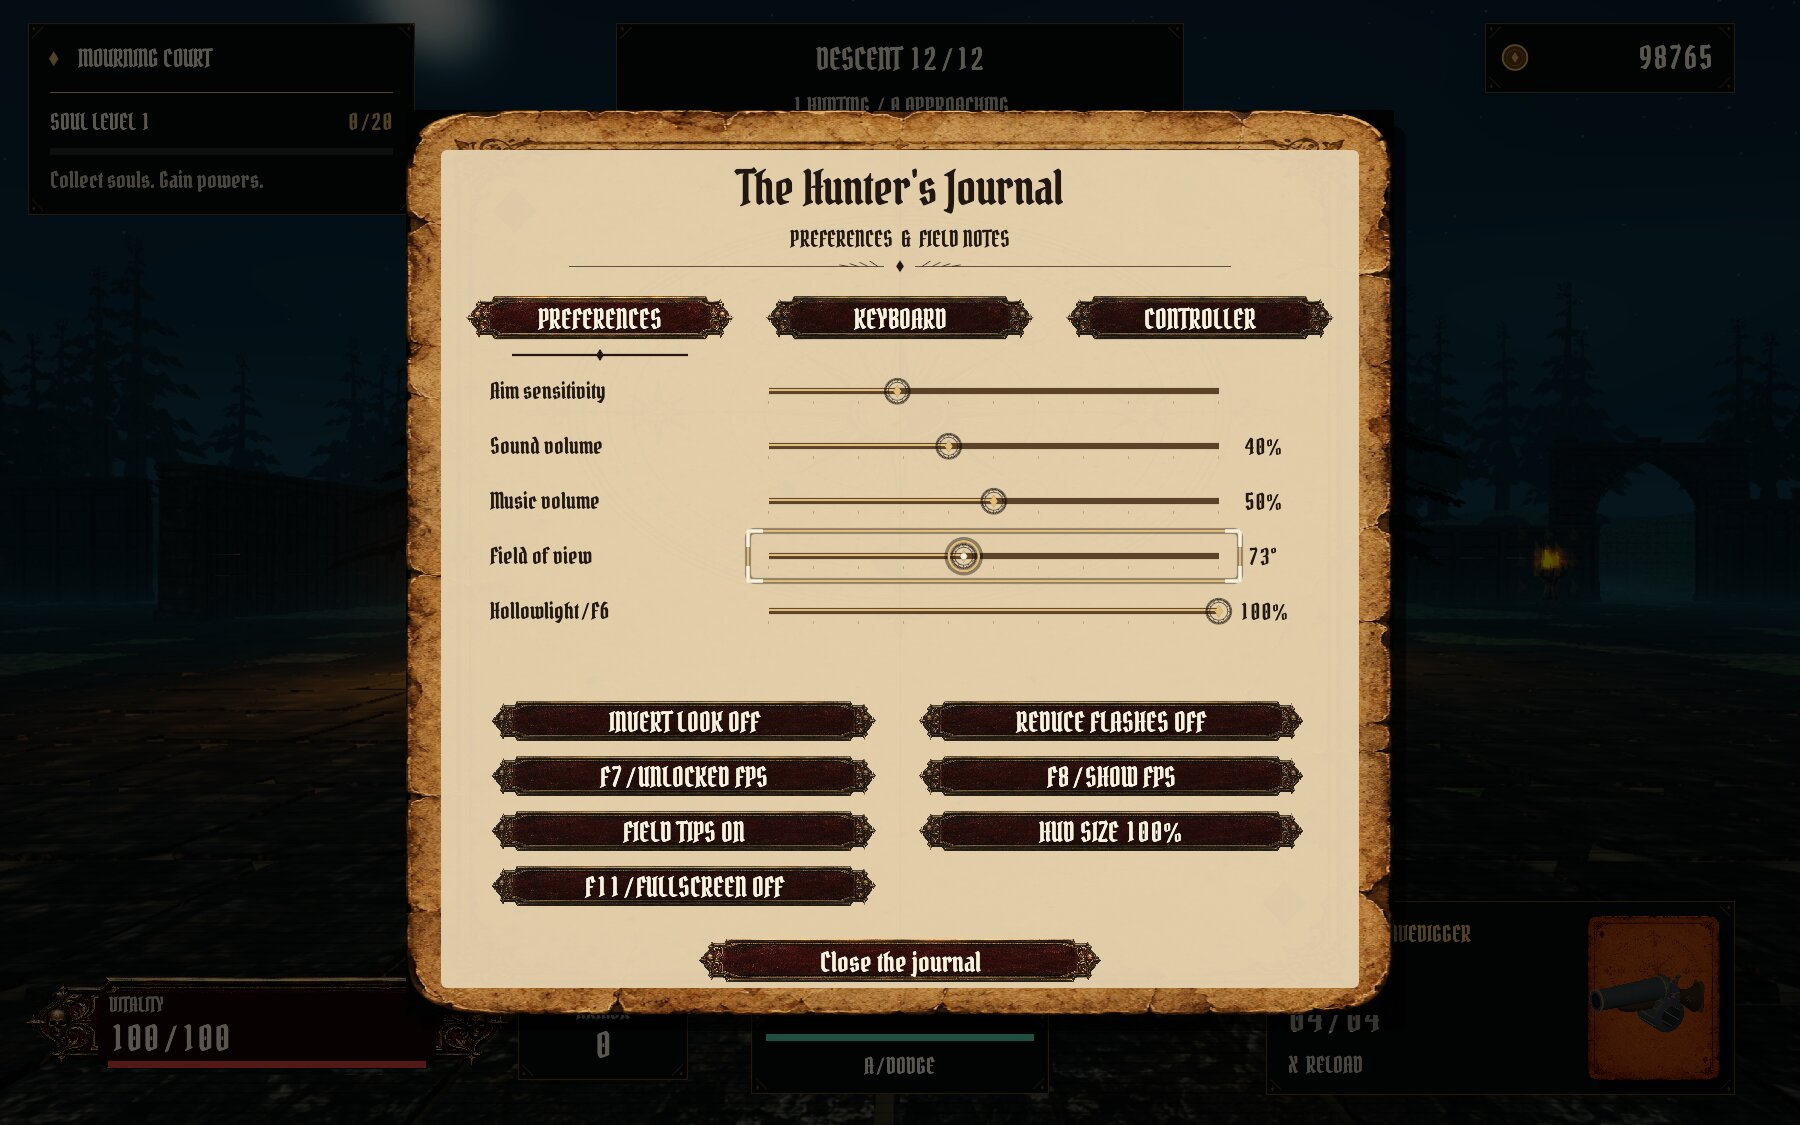
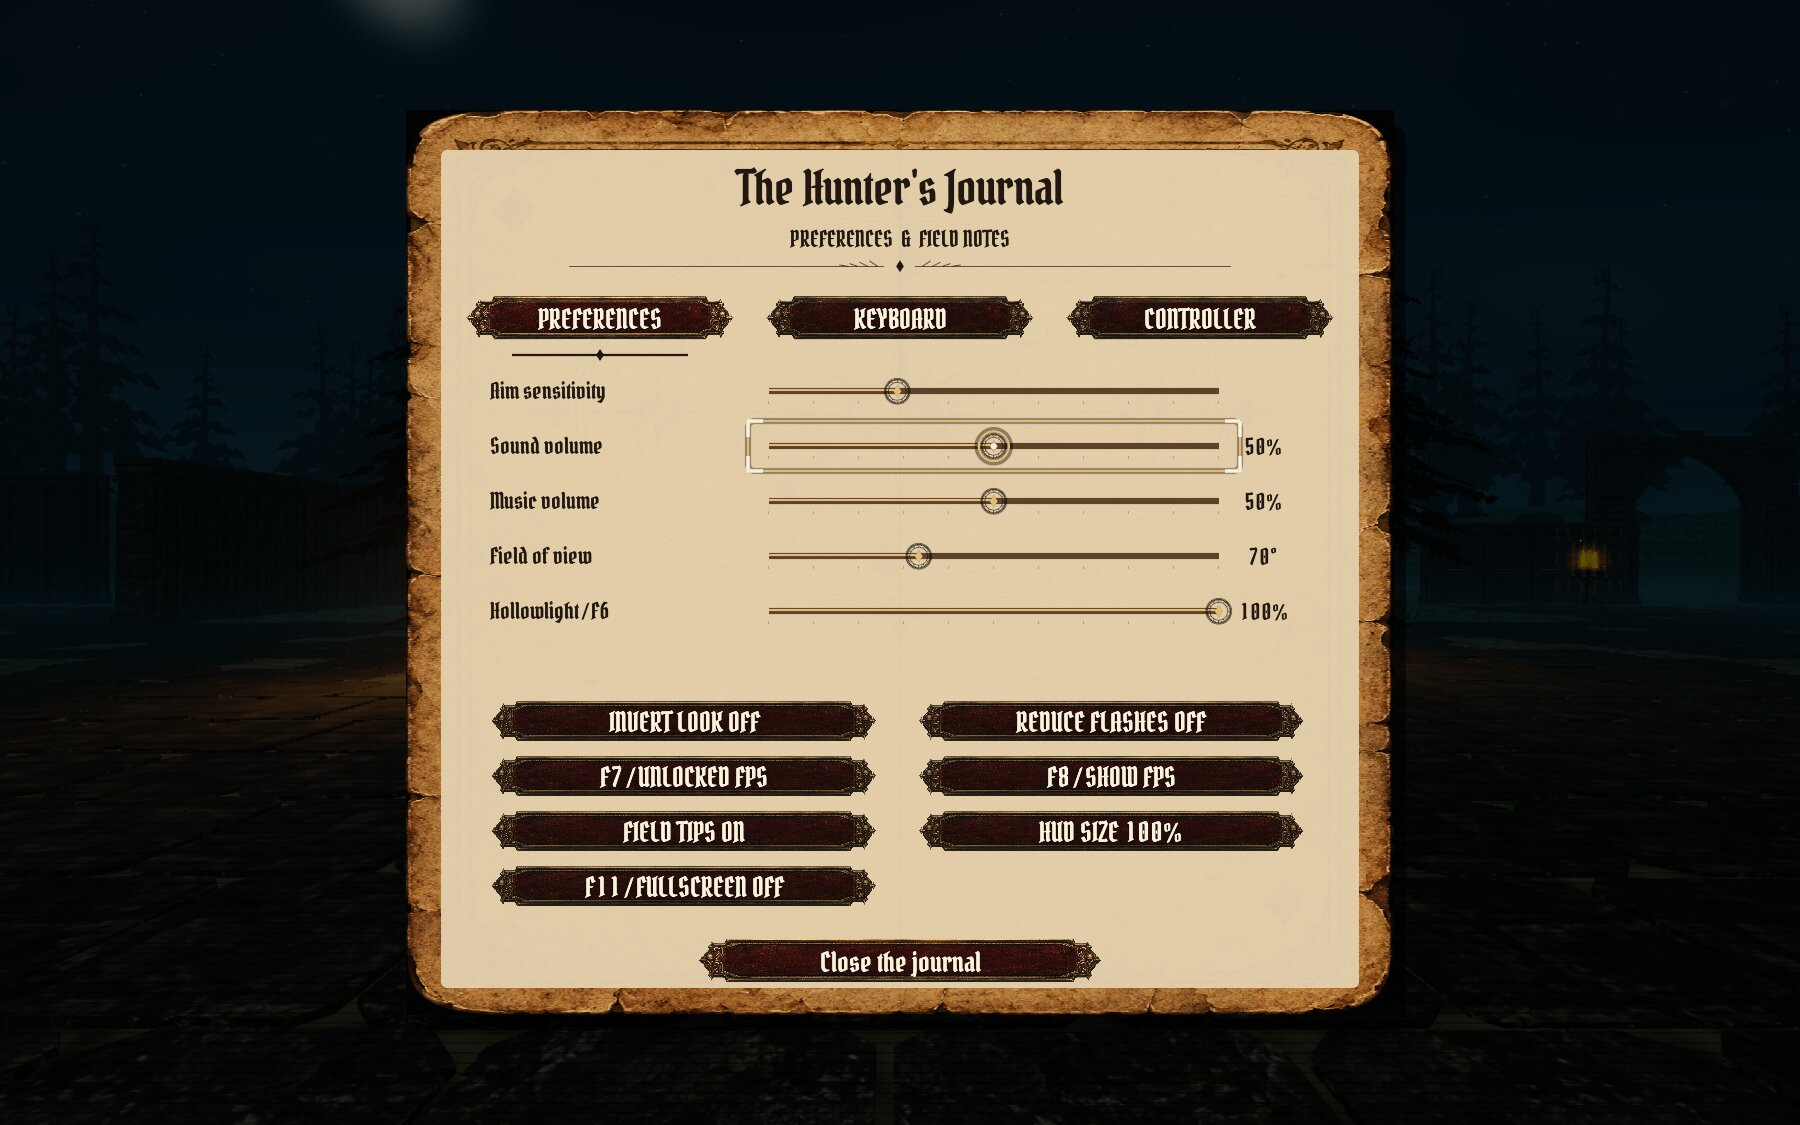
Give the right stick its own look speed
The Controller page gets a Stick look speed slider (50-200%, saved in
settings.json; older files load at 100%, today's rate at the default mouse
sensitivity). The mouse's Aim sensitivity no longer changes the stick's
turn rate. The pause ledger also hides while the journal is open over it.

diff --git a/src/gamepad.rs b/src/gamepad.rs
@@ -127,8 +127,15 @@ impl Frame {
 
 pub const STICK_DEADZONE: f32 = 0.2;
 pub const TRIGGER_THRESHOLD: f32 = 0.35;
-/// Turn rate in radians per second at full deflection and default sensitivity.
+/// Turn rate in radians per second at full deflection and 100% stick speed.
 pub const LOOK_SPEED: f32 = 3.4;
+/// How far the view turns this update, as (yaw, pitch), from the arena's
+/// `look` (already scaled by `LOOK_SPEED`). The journal's Stick look speed
+/// scales it; the mouse's Aim sensitivity doesn't.
+pub fn look_turn(look: Vec2, stick_speed: f32, invert_y: bool, dt: f32) -> (f32, f32) {
+    let rate = stick_speed * dt;
+    (look.x * rate, look.y * rate * if invert_y { -1. } else { 1. })
+}
 /// Virtual cursor speed in egui points per second at full deflection.
 pub const CURSOR_SPEED: f32 = 1100.;
 const DPAD_NUDGE: f32 = 0.45;
@@ -1003,6 +1010,39 @@ mod tests {
         ];
         assert_eq!(neighbour(Pos2::new(400., 700.), egui::vec2(0., -1.), &side), Some(0));
         assert_eq!(neighbour(Pos2::new(420., 400.), egui::vec2(0., -1.), &side), Some(1));
+    }
+    #[test]
+    fn stick_look_speed_scales_the_turn_and_ignores_mouse_sensitivity() {
+        let frame = Frame {
+            right: Vec2::new(1., -1.),
+            ..Default::default()
+        };
+        let look = arena(&frame, &PadBindings::default()).look;
+        let dt = 0.01;
+        // At 100% it turns as before at the default mouse sensitivity.
+        let (yaw, pitch) = look_turn(look, 1., false, dt);
+        assert!((yaw - look.x * dt).abs() < 1e-6 && (pitch - look.y * dt).abs() < 1e-6);
+        assert!(yaw > 0. && (yaw - LOOK_SPEED * dt * curve(radial(frame.right, STICK_DEADZONE)).x).abs() < 1e-6);
+        let (fast, _) = look_turn(look, 2., false, dt);
+        let (slow, _) = look_turn(look, 0.5, false, dt);
+        assert!((fast - yaw * 2.).abs() < 1e-6 && (slow - yaw * 0.5).abs() < 1e-6);
+        let (_, inverted) = look_turn(look, 1., true, dt);
+        assert_eq!(inverted, -pitch);
+        // The setting is saved, clamped, and older files load at 100%.
+        use crate::game::Preferences;
+        let custom = Preferences {
+            stick_speed: 1.45,
+            sensitivity: 0.006,
+            ..Default::default()
+        };
+        assert_eq!(
+            Preferences::from_json(&serde_json::to_vec(&custom).unwrap()),
+            Some(custom)
+        );
+        assert_eq!(Preferences::from_json(b"{}").unwrap().stick_speed, 1.);
+        let (lo, hi) = Preferences::STICK_SPEED_RANGE;
+        assert_eq!(Preferences::from_json(br#"{"stick_speed":9}"#).unwrap().stick_speed, hi);
+        assert_eq!(Preferences::from_json(br#"{"stick_speed":0}"#).unwrap().stick_speed, lo);
     }
     #[test]
     fn the_focus_frame_marks_the_smallest_control_under_the_cursor() {

diff --git a/src/ui.rs b/src/ui.rs
@@ -2919,7 +2919,10 @@ fn ledger_layout(c: &Canvas, text: &str, width: f32) -> std::sync::Arc<egui::Gal
 }
 fn pause(c: &Canvas, g: &mut Game) {
     c.fill(-100., 0., 1640., c.h, C::from_black_alpha(165));
-    pause_ledger(c, g);
+    // The journal opens over the pause menu and is wider than it.
+    if !g.settings {
+        pause_ledger(c, g);
+    }
     let x = 464.;
     let y = 215.;
     c.layout("pause_folio", x, y, 512., 515.);
@@ -3651,6 +3654,17 @@ fn journal_controller(c: &Canvas, g: &mut Game) {
     if g.pad_rebinding.is_some() && !clicked_slot && c.ui.input(|i| i.pointer.any_click()) {
         g.pad_rebinding = None;
     }
+    // The right stick's turn rate, separate from the mouse's sensitivity.
+    let (min_speed, max_speed) = Preferences::STICK_SPEED_RANGE;
+    c.text(392., 584., "Stick look speed", 17., INK, true, Align2::LEFT_CENTER);
+    c.slider("stick_speed", 615., 585., 360., &mut g.prefs.stick_speed, min_speed, max_speed);
+    c.center(
+        1010.,
+        585.,
+        format!("{:.0}%", g.prefs.stick_speed * 100.),
+        12.,
+        INK,
+    );
     for (i, line) in [
         "Left stick  move    Right stick  look    Start  pause    D-pad  choose a power",
         "In menus, the left stick moves the cursor, A selects and B goes back.",
@@ -3658,9 +3672,9 @@ fn journal_controller(c: &Canvas, g: &mut Game) {
     .into_iter()
     .enumerate()
     {
-        let y = 582. + i as f32 * 28.;
+        let y = 616. + i as f32 * 25.;
         c.center(720., y, line, 13., INK);
-        c.line((390., y + 14.), (1050., y + 14.), GOLD.gamma_multiply(0.35), 0.6);
+        c.line((390., y + 12.5), (1050., y + 12.5), GOLD.gamma_multiply(0.35), 0.6);
     }
     let note = if let Some((action, _)) = g.pad_rebinding {
         format!(
@@ -3672,11 +3686,11 @@ fn journal_controller(c: &Canvas, g: &mut Game) {
     } else {
         g.controls_note.clone()
     };
-    c.center(720., 652., note, 13., INK);
+    c.center(720., 670., note, 13., INK);
     if c.button(
         "restore_buttons",
         558.,
-        686.,
+        698.,
         324.,
         36.,
         "Restore default buttons",

diff --git a/src/game.rs b/src/game.rs
@@ -439,6 +439,8 @@ pub struct Preferences {
     pub hud_scale: f32,
     /// Open in borderless fullscreen; F11 and the journal switch it.
     pub fullscreen: bool,
+    /// Right-stick turn rate, relative to `gamepad::LOOK_SPEED`.
+    pub stick_speed: f32,
 }
 /// Read a field, or use its default if that field alone is damaged, so one
 /// bad entry doesn't reset every other preference.
@@ -467,12 +469,14 @@ impl Default for Preferences {
             tips_seen: 0,
             hud_scale: 1.,
             fullscreen: false,
+            stick_speed: 1.,
         }
     }
 }
 impl Preferences {
     pub const FOV_RANGE: (f32, f32) = (60., 90.);
     pub const SENSITIVITY_RANGE: (f32, f32) = (0.0007, 0.007);
+    pub const STICK_SPEED_RANGE: (f32, f32) = (0.5, 2.);
     /// HUD sizes the journal cycles through. Beyond 110% the bottom row
     /// (vitality, armor, dodge and weapon) no longer fits side by side, and
     /// the boss bar reaches the damage arcs.
@@ -512,6 +516,7 @@ impl Preferences {
                 d.hud_scale,
             ),
             fullscreen: self.fullscreen,
+            stick_speed: clean(self.stick_speed, Self::STICK_SPEED_RANGE, d.stick_speed),
         }
     }
     pub(crate) fn from_json(bytes: &[u8]) -> Option<Self> {

diff --git a/src/main.rs b/src/main.rs
@@ -976,11 +976,10 @@ impl App {
                 self.pad.cursor.hide();
                 self.game.input.fire = self.mouse_fire || pad.fire;
                 let prefs = self.game.prefs;
-                let rate = prefs.sensitivity / game::Preferences::default().sensitivity * dt;
-                let vertical = if prefs.invert_y { -1. } else { 1. };
-                self.game.run.yaw += pad.look.x * rate;
-                self.game.run.pitch =
-                    (self.game.run.pitch + pad.look.y * rate * vertical).clamp(-1.3, 1.3);
+                let (yaw, pitch) =
+                    gamepad::look_turn(pad.look, prefs.stick_speed, prefs.invert_y, dt);
+                self.game.run.yaw += yaw;
+                self.game.run.pitch = (self.game.run.pitch + pitch).clamp(-1.3, 1.3);
                 if pad.dodge {
                     self.game.dodge();
                 }
